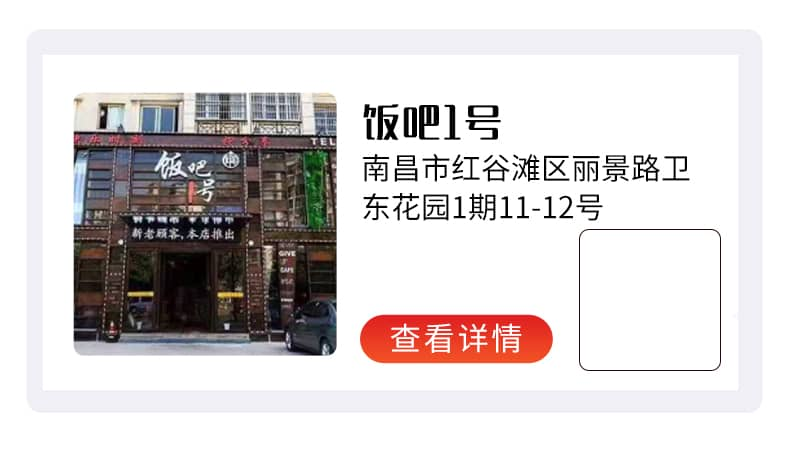
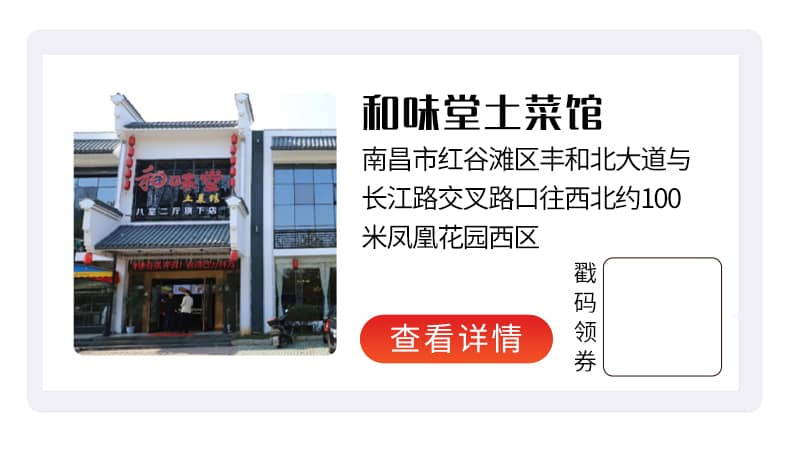
change image

diff --git a/index.html b/index.html
@@ -8,10 +8,10 @@
         position: relative;
     }
     .code{
-        width: 17%;
+        width: 14%;
         position: absolute;
-        right: 9.25%;
-        bottom: 18%;
+        right: 9%;
+        bottom: 17%;
     }
 </style>
 </head>
